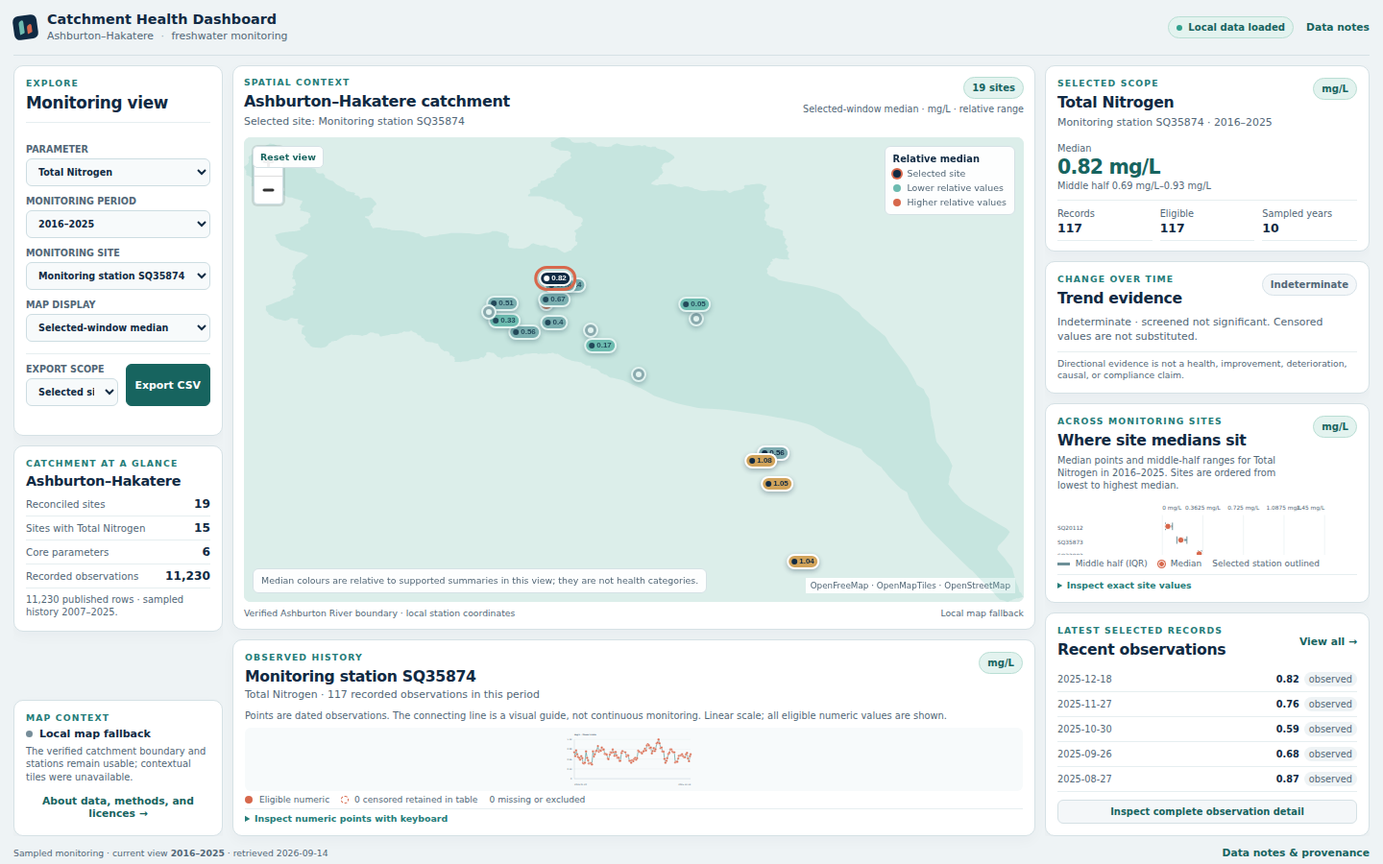
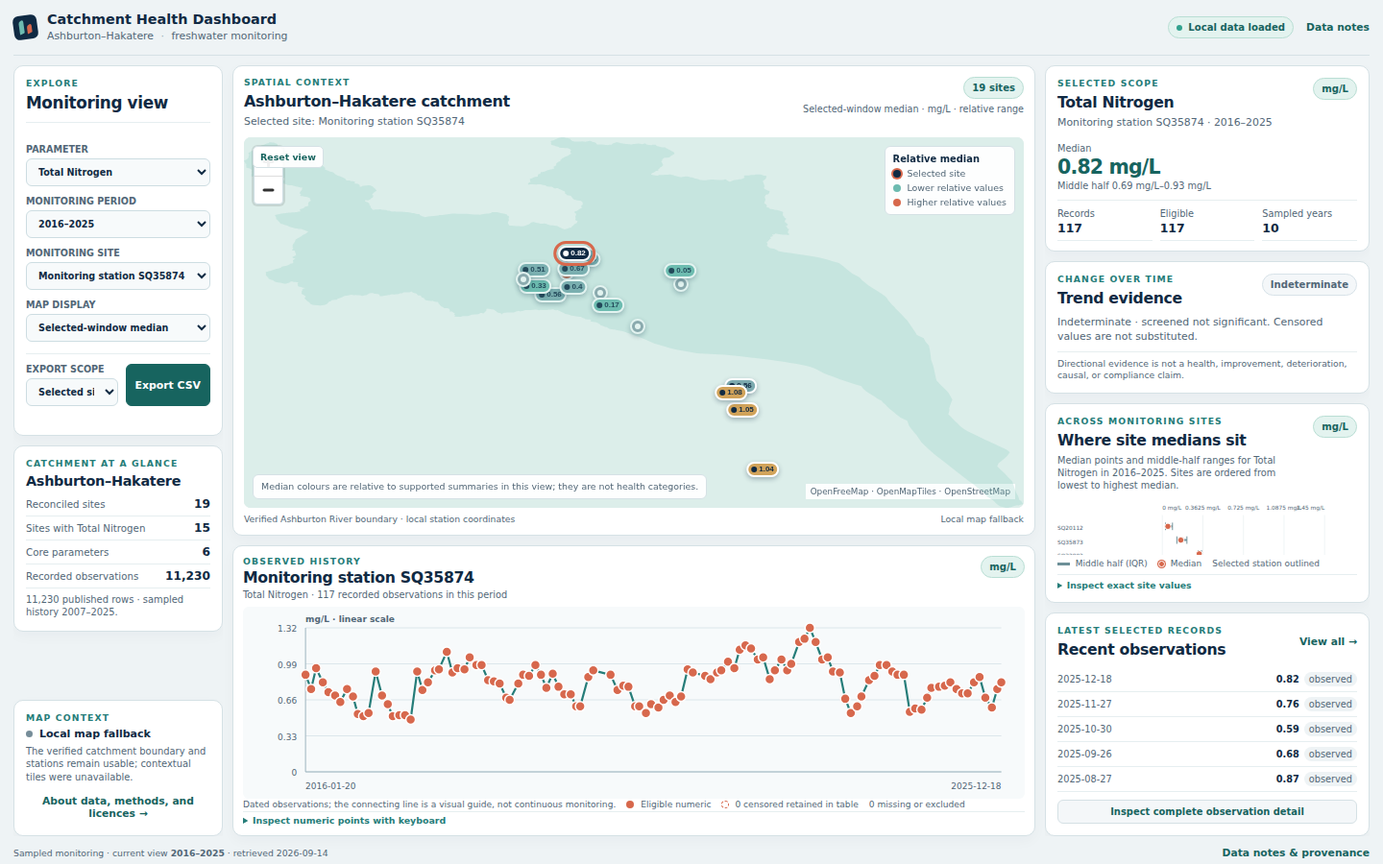
Improve responsive history chart layout

diff --git a/web/src/components/SeriesChart.tsx b/web/src/components/SeriesChart.tsx
@@ -1,4 +1,4 @@
-import { useState } from "react";
+import { useEffect, useRef, useState } from "react";
 import type { Observation } from "../contracts";
 
 type SeriesChartProps = {
@@ -16,6 +16,8 @@ function chartNumber(value: number): string {
 /** Accessible SVG series; the later observation panel remains the authoritative detail route. */
 export function SeriesChart({ observations, unit, stationName, parameterName, loading = false }: SeriesChartProps) {
   const [inspectedPoint, setInspectedPoint] = useState<string | null>(null);
+  const chartFrameRef = useRef<HTMLDivElement | null>(null);
+  const [chartSize, setChartSize] = useState({ width: 620, height: 270 });
   const numeric = observations.filter((observation) => observation.value !== null && observation.analysisEligible);
   const censoredCount = observations.filter((observation) => observation.valueKind === "censored").length;
   const nonNumericCount = observations.filter((observation) => observation.valueKind === "missing" || observation.valueKind === "non_numeric" || !observation.analysisEligible).length;
@@ -27,15 +29,36 @@ export function SeriesChart({ observations, unit, stationName, parameterName, lo
   const minValue = Math.min(...values, 0);
   const maxValue = Math.max(...values, 1);
   const valueSpan = Math.max(maxValue - minValue, 1);
+  const plotLeft = Math.max(50, Math.min(72, chartSize.width * 0.08));
+  const plotRight = Math.max(16, Math.min(26, chartSize.width * 0.03));
+  const plotTop = 22;
+  const plotBottom = 28;
+  const plotWidth = Math.max(chartSize.width - plotLeft - plotRight, 1);
+  const plotHeight = Math.max(chartSize.height - plotTop - plotBottom, 1);
   const xFor = (observation: Observation, index: number) => {
     const time = Date.parse(observation.observedAt);
-    return 58 + (Number.isFinite(time) ? ((time - minTime) / timeSpan) * 492 : (index * 492) / Math.max(numeric.length - 1, 1));
+    return plotLeft + (Number.isFinite(time) ? ((time - minTime) / timeSpan) * plotWidth : (index * plotWidth) / Math.max(numeric.length - 1, 1));
   };
-  const yFor = (value: number) => 216 - ((value - minValue) / valueSpan) * 166;
+  const yFor = (value: number) => plotTop + plotHeight - ((value - minValue) / valueSpan) * plotHeight;
   const points = numeric.map((observation, index) => `${xFor(observation, index)},${yFor(observation.value ?? 0)}`);
   const tickValues = [0, 1, 2, 3, 4].map((index) => minValue + (valueSpan * index) / 4);
   const firstDate = observations[0]?.observedAt.slice(0, 10) ?? "";
   const lastDate = observations.at(-1)?.observedAt.slice(0, 10) ?? "";
+
+  useEffect(() => {
+    const frame = chartFrameRef.current;
+    if (!frame) return;
+    const measure = () => {
+      const bounds = frame.getBoundingClientRect();
+      const next = { width: Math.max(320, Math.round(bounds.width)), height: Math.max(150, Math.round(bounds.height)) };
+      setChartSize((current) => current.width === next.width && current.height === next.height ? current : next);
+    };
+    measure();
+    if (typeof ResizeObserver === "undefined") return;
+    const observer = new ResizeObserver(measure);
+    observer.observe(frame);
+    return () => observer.disconnect();
+  }, []);
 
   return (
     <section className="panel chart-panel" aria-labelledby="series-title">
@@ -47,19 +70,20 @@ export function SeriesChart({ observations, unit, stationName, parameterName, lo
         </div>
         <span className="unit-label">{unit ?? "unit pending"}</span>
       </div>
-      <p className="chart-explainer">Points are dated observations. The connecting line is a visual guide, not continuous monitoring. Linear scale; all eligible numeric values are shown.</p>
       {loading && <p className="empty-state" role="status" aria-live="polite">Loading this parameter’s observation detail…</p>}
       {observations.length === 0 && <p className="empty-state" role="status">No observations are available for this parameter and station in the selected period.</p>}
       {observations.length > 0 && numeric.length === 0 && <p className="empty-state" role="status">No eligible numeric observations are available to plot; inspect the retained table for censored or excluded records.</p>}
-      {numeric.length > 0 && <svg className="series-chart" viewBox="0 0 620 270" role="img" aria-labelledby="chart-title chart-desc">
+      {numeric.length > 0 && <div className="series-chart-frame" ref={chartFrameRef}>
+        <svg className="series-chart" data-testid="history-chart" width={chartSize.width} height={chartSize.height} viewBox={`0 0 ${chartSize.width} ${chartSize.height}`} role="img" aria-labelledby="chart-title chart-desc">
         <title id="chart-title">{parameterName} observations at {stationName}</title>
         <desc id="chart-desc">{numeric.length} eligible numeric observations on a linear scale from {chartNumber(minValue)} to {chartNumber(maxValue)} {unit ?? ""}. Censored, missing, and excluded results remain in the detail table.</desc>
+        <rect data-testid="history-plot" className="chart-plot-area" x={plotLeft} y={plotTop} width={plotWidth} height={plotHeight} rx="3" />
         {tickValues.map((value, index) => {
           const y = yFor(value);
-          return <g key={value}><line x1="58" x2="550" y1={y} y2={y} className="chart-gridline" /><text x="48" y={y + 4} textAnchor="end" className="chart-axis-label">{chartNumber(value)}</text><title>{index === 0 ? `Minimum scale ${chartNumber(value)}` : `Scale ${chartNumber(value)}`}</title></g>;
+          return <g key={value}><line x1={plotLeft} x2={plotLeft + plotWidth} y1={y} y2={y} className="chart-gridline" /><text x={plotLeft - 9} y={y + 4} textAnchor="end" className="chart-axis-label">{chartNumber(value)}</text><title>{index === 0 ? `Minimum scale ${chartNumber(value)}` : `Scale ${chartNumber(value)}`}</title></g>;
         })}
-        <line x1="58" y1="50" x2="58" y2="216" className="chart-axis" />
-        <line x1="58" y1="216" x2="550" y2="216" className="chart-axis" />
+        <line x1={plotLeft} y1={plotTop} x2={plotLeft} y2={plotTop + plotHeight} className="chart-axis" />
+        <line x1={plotLeft} y1={plotTop + plotHeight} x2={plotLeft + plotWidth} y2={plotTop + plotHeight} className="chart-axis" />
         {points.length > 1 && <polyline points={points.join(" ")} className="chart-line" />}
         {numeric.map((observation, index) => {
           const value = observation.value ?? 0;
@@ -67,11 +91,12 @@ export function SeriesChart({ observations, unit, stationName, parameterName, lo
           const y = yFor(value);
           return <circle key={observation.observationId} cx={x} cy={y} r="5" className="chart-point"><title>{`${observation.observedAt.slice(0, 10)} · ${chartNumber(value)} ${unit ?? ""}`}</title></circle>;
         })}
-        <text x="58" y="244" className="chart-label">{firstDate}</text>
-        <text x="550" y="244" textAnchor="end" className="chart-label">{lastDate}</text>
-        <text x="58" y="31" className="chart-unit-label">{unit ?? "Value"} · linear scale</text>
-      </svg>}
-      <div className="chart-legend" aria-label="Chart record legend"><span><i className="legend-dot legend-dot-active" /> Eligible numeric</span><span><i className="legend-marker-censored" /> {censoredCount} censored retained in table</span><span>{nonNumericCount} missing or excluded</span></div>
+        <text x={plotLeft} y={chartSize.height - 10} className="chart-label">{firstDate}</text>
+        <text x={plotLeft + plotWidth} y={chartSize.height - 10} textAnchor="end" className="chart-label">{lastDate}</text>
+        <text x={plotLeft} y="16" className="chart-unit-label">{unit ?? "Value"} · linear scale</text>
+        </svg>
+      </div>}
+      <div className="chart-legend" aria-label="Chart record legend"><span>Dated observations; the connecting line is a visual guide, not continuous monitoring.</span><span><i className="legend-dot legend-dot-active" /> Eligible numeric</span><span><i className="legend-marker-censored" /> {censoredCount} censored retained in table</span><span>{nonNumericCount} missing or excluded</span></div>
       {numeric.length > 0 && <details className="chart-inspection"><summary>Inspect numeric points with keyboard</summary><div className="point-list">{numeric.map((observation) => <button key={observation.observationId} type="button" onFocus={() => setInspectedPoint(`${observation.observedAt.slice(0, 10)} · ${chartNumber(observation.value ?? 0)} ${unit ?? ""}`)} onClick={() => setInspectedPoint(`${observation.observedAt.slice(0, 10)} · ${chartNumber(observation.value ?? 0)} ${unit ?? ""}`)}>{observation.observedAt.slice(0, 10)} · {chartNumber(observation.value ?? 0)} {unit ?? ""}</button>)}</div>{inspectedPoint && <p className="point-status" role="status" aria-live="polite">Selected point: {inspectedPoint}</p>}</details>}
     </section>
   );

diff --git a/web/src/styles.css b/web/src/styles.css
@@ -67,7 +67,7 @@ select:focus-visible, button:focus-visible, summary:focus-visible, [tabindex="0"
 .status-dot-openfreemap { background: #31a28e; }
 .status-dot-fallback { background: #768d99; }
 .rail-status .text-button { margin-top: 8px; }
-.primary-column { display: grid; gap: 10px; grid-template-rows: minmax(0, 1fr) 205px; }
+.primary-column { display: grid; gap: 10px; grid-template-rows: minmax(0, 1.62fr) minmax(250px, 1fr); }
 .insights-rail { display: grid; gap: 10px; grid-template-rows: auto auto minmax(0, 1fr) auto; overflow-y: auto; }
 .panel { padding: 12px; }
 .panel-heading, .map-panel-header { align-items: flex-start; display: flex; gap: 10px; justify-content: space-between; min-width: 0; }
@@ -116,10 +116,14 @@ select:focus-visible, button:focus-visible, summary:focus-visible, [tabindex="0"
 .map-marker-value { font-size: 8px; }
 .map-marker-direction { font-size: 12px; }
 
-.chart-panel { display: flex; flex-direction: column; min-height: 0; }
+.chart-panel { display: flex; flex-direction: column; min-height: 0; padding: 10px; }
 .chart-context { margin-top: 3px; }
-.chart-explainer { color: #526777; font-size: .62rem; line-height: 1.3; margin: -1px 0 5px; }
-.series-chart { background: #f7fafb; border-radius: 6px; display: block; flex: 1 1 auto; margin: 0 0 3px; min-height: 0; width: 100%; }
+.chart-panel .panel-heading { margin-bottom: 5px; }
+.chart-panel .eyebrow { margin-bottom: 2px; }
+.chart-panel .chart-context { font-size: .61rem; margin-top: 2px; }
+.series-chart-frame { background: #f7fafb; border-radius: 6px; display: flex; flex: 1 1 0; min-height: 0; min-width: 0; overflow: hidden; width: 100%; }
+.series-chart { display: block; height: 100%; min-height: 0; width: 100%; }
+.chart-plot-area { fill: #f7fafb; }
 .chart-axis { stroke: #9db4be; stroke-width: 1; }
 .chart-gridline { stroke: #dce6eb; stroke-width: 1; }
 .chart-line { fill: none; stroke: #267d79; stroke-width: 2.2; }
@@ -127,9 +131,9 @@ select:focus-visible, button:focus-visible, summary:focus-visible, [tabindex="0"
 .chart-point:hover, .chart-point:focus { fill: #102a43; }
 .chart-axis-label, .chart-label, .chart-unit-label { fill: #526777; font-size: 9px; }
 .chart-unit-label { font-size: 9px; font-weight: 750; }
-.chart-legend { align-items: center; color: #526777; display: flex; flex-wrap: wrap; font-size: .57rem; gap: 5px 12px; margin: 1px 0 0; }
+.chart-legend { align-items: center; color: #526777; display: flex; flex-wrap: wrap; font-size: .57rem; gap: 3px 11px; line-height: 1.15; margin: 1px 0 0; }
 .legend-marker-censored { border: 1px dashed #d7684c; border-radius: 50%; display: inline-block; height: 8px; margin-right: 3px; vertical-align: -1px; width: 8px; }
-.chart-inspection { border-top: 1px solid #e6eef0; margin-top: 4px; padding-top: 4px; }
+.chart-inspection { border-top: 1px solid #e6eef0; margin-top: 2px; padding-top: 3px; }
 .chart-inspection summary { color: #267d79; font-size: .59rem; font-weight: 750; }
 .point-list { display: grid; gap: 4px; grid-template-columns: repeat(4, minmax(0, 1fr)); margin-top: 5px; max-height: 80px; overflow: auto; padding: 2px; }
 .point-list button { background: #f4f7f9; border: 1px solid #d7e2e8; border-radius: 5px; color: #526777; font-size: .56rem; padding: 4px; text-align: left; }
@@ -222,7 +226,7 @@ a { color: #17645f; }
   .dashboard-workspace { grid-template-columns: 190px minmax(0, 1fr); grid-template-rows: minmax(0, 1fr) 216px; }
   .insights-rail { display: grid; grid-column: 1 / -1; grid-row: 2; grid-template-columns: repeat(4, minmax(190px, 1fr)); overflow-x: auto; overflow-y: hidden; }
   .comparison-panel { min-height: 195px; }
-  .primary-column { grid-column: 2; grid-row: 1; grid-template-rows: minmax(0, 1fr) 178px; }
+  .primary-column { grid-column: 2; grid-row: 1; grid-template-rows: minmax(0, 1.25fr) minmax(210px, .75fr); }
   .control-rail { grid-column: 1; grid-row: 1; }
   .map-note { max-width: 70%; }
 }
@@ -246,8 +250,8 @@ a { color: #17645f; }
   .map-panel { min-height: 365px; }
   .map-panel-header h2 { font-size: .9rem; }
   .map-mode-label { max-width: 130px; }
-  .series-chart { min-height: 160px; }
-  .chart-panel { min-height: 250px; }
+  .series-chart-frame { min-height: 160px; }
+  .chart-panel { min-height: 280px; }
   .insights-rail { gap: 8px; }
   .comparison-panel { min-height: 300px; }
   .comparison-plot { min-width: 430px; }

diff --git a/web/tests/browser/dashboard.spec.ts b/web/tests/browser/dashboard.spec.ts
@@ -48,7 +48,7 @@ test("lands on a representative coverage-led default", async ({ page }) => {
   await expect(page.getByRole("combobox", { name: "Monitoring site" })).toHaveValue("SQ35874");
   await expect(page.getByText("Selected scope", { exact: true })).toBeVisible();
   await expect(page.locator(".scope-metric strong")).toHaveText("0.82 mg/L");
-  await expect(page.getByText(/Linear scale; all eligible numeric values are shown/)).toBeVisible();
+  await expect(page.getByText(/Dated observations; the connecting line is a visual guide/)).toBeVisible();
 });
 
 test("fits the primary dashboard in desktop viewports without body scrolling", async ({ page }) => {
@@ -58,6 +58,16 @@ test("fits the primary dashboard in desktop viewports without body scrolling", a
     const dimensions = await page.evaluate(() => ({ scrollHeight: document.documentElement.scrollHeight, clientHeight: document.documentElement.clientHeight, scrollWidth: document.documentElement.scrollWidth, clientWidth: document.documentElement.clientWidth }));
     expect(dimensions.scrollHeight - dimensions.clientHeight).toBeLessThanOrEqual(1);
     expect(dimensions.scrollWidth - dimensions.clientWidth).toBeLessThanOrEqual(1);
+    const chartBox = await page.locator('[data-testid="history-chart"]').boundingBox();
+    const plotBox = await page.locator('[data-testid="history-plot"]').boundingBox();
+    const chartPanelBox = await page.locator('.chart-panel').boundingBox();
+    const mapPanelBox = await page.locator('.map-panel').boundingBox();
+    expect(chartBox).not.toBeNull();
+    expect(plotBox).not.toBeNull();
+    expect(chartBox!.height).toBeGreaterThan(150);
+    expect(plotBox!.width).toBeGreaterThan(chartBox!.width * 0.8);
+    expect(plotBox!.height).toBeGreaterThan(chartBox!.height * 0.65);
+    console.log(`history-chart-layout ${JSON.stringify({ width, height, mapPanel: mapPanelBox, chartPanel: chartPanelBox, chart: chartBox, plot: plotBox })}`);
   }
 });
 
@@ -221,7 +231,7 @@ test("measures real asset and basemap resources without visitor ECan calls", asy
 });
 
 test("captures owner-review viewports without horizontal overflow", async ({ page }) => {
-  for (const [width, height, name] of [[1440, 900, "desktop"], [1536, 864, "wide"], [1024, 768, "compact"], [390, 844, "mobile"]] as const) {
+  for (const [width, height, name] of [[1440, 900, "desktop"], [1536, 864, "wide"], [1920, 1080, "ultrawide"], [1024, 768, "compact"], [390, 844, "mobile"]] as const) {
     await page.setViewportSize({ width, height });
     await openDashboard(page);
     const overflow = await page.evaluate(() => document.documentElement.scrollWidth - document.documentElement.clientWidth);

diff --git a/docs/PROJECT_STATE.md b/docs/PROJECT_STATE.md
@@ -51,8 +51,8 @@ Verification here distinguishes documented decisions from executable evidence; t
 - `.gitignore` separates Python caches, environments, raw/cache data, and generated reports from tracked source.
 - Python package metadata and source-independent version `0.1.0` contracts exist for source, station, parameter, observation, aggregate, trend, and asset-manifest records.
 - A synthetic fixture validates source provenance, normalized observation fields, censored/null preservation, referential integrity, and manifest counts.
-- A Vite/React/TypeScript frontend now loads the ignored versioned runtime shell and parameter-partitioned observation assets when prepared, with an explicit synthetic-fixture fallback, and coordinates parameter/window/station/map-display controls across a viewport-filling MapLibre workspace, selected-site series, recent observations, secondary observation inspection, summaries, coverage, interval comparison, filtered CSV export, and quality/provenance views. The local view has a map-centric three-region shell, coverage-led Total Nitrogen/SQ35874 default, verified ECan polygon geometry, optional OpenFreeMap Positron context with a timed local-geometry fallback, readable linear chart axes and discrete-observation cues, neutral trend direction styling, concise detail surfaces, responsive layout, explicit empty/censored/indeterminate states, and browser/unit verification. `web/package-lock.json` is checked in.
-- Quality gates pass: the repository Python suite, fixture validation, Python compilation, frontend strict typecheck, twelve frontend unit tests, frontend production build, seventeen Playwright/axe browser checks, local release-readiness checks, all-site source acquisition, site-membership audit, analytical asset generation, viability audit, source-manifest integrity, and deterministic asset rebuild checks. The final browser suite was rerun for the map-centric shell on 2026-09-14.
+- A Vite/React/TypeScript frontend now loads the ignored versioned runtime shell and parameter-partitioned observation assets when prepared, with an explicit synthetic-fixture fallback, and coordinates parameter/window/station/map-display controls across a viewport-filling MapLibre workspace, selected-site series, recent observations, secondary observation inspection, summaries, coverage, interval comparison, filtered CSV export, and quality/provenance views. The local view has a map-centric three-region shell, coverage-led Total Nitrogen/SQ35874 default, verified ECan polygon geometry, optional OpenFreeMap Positron context with a timed local-geometry fallback, readable linear chart axes and discrete-observation cues, a responsive history plot that fills its measured panel, neutral trend direction styling, concise detail surfaces, responsive layout, explicit empty/censored/indeterminate states, and browser/unit verification. `web/package-lock.json` is checked in.
+- Quality gates pass: the repository Python suite, fixture validation, Python compilation, frontend strict typecheck, twelve frontend unit tests, frontend production build, seventeen Playwright/axe browser checks, local release-readiness checks, all-site source acquisition, site-membership audit, analytical asset generation, viability audit, source-manifest integrity, and deterministic asset rebuild checks. The final browser suite was rerun for the responsive history-chart correction on 2026-09-14.
 - A bounded live Hilltop profile verified 12 real observations for `SQ20104`/Dissolved Reactive Phosphorus; no production dataset is committed.
 - The normal bounded three-parameter profile joined 10 in-bound sites and retrieved 243 observations; 9 sites had data, 194 observations were numeric, and 49 were left-censored. Two Canterbury Bight marine name-screened records were excluded by the polygon.
 - The earlier neutral nine-parameter candidate profiles retrieved 644 observations for 2024 and 8,644 observations for 2007–2024; these were the evidence used for the owner-approved eight-parameter scope. pH covered only 5 sites, ended in 2013, and had no reported unit.
@@ -96,7 +96,7 @@ The local production-shaped workflow is implemented against ignored generated as
 - **Frontend type check/build:** the repository-defined typecheck, unit test, production build, and browser gates remain required after the refreshed contract. Public builds omit source maps; the exact current sizes are recorded after the final build.
 - **Data validation:** source inventory/catalog validation is evidenced by the count-checked live reconciliation; parser and contract validation is evidenced by fixtures plus the fresh 2007–2025 Hilltop profile. Coverage beyond identified inventories remains unverified.
 - **Scientific validation:** the conservative numeric-only summary and uncensored Theil–Sen/Kendall fallback are unit-tested against an independently calculated pairwise Theil–Sen fixture; the viability report audits all trend reasons. Censor-aware ROS/Mann–Kendall methods remain unimplemented and should not be implied.
-- **Visual/accessibility/responsive validation:** Playwright full-page screenshots were inspected at 1440×900, 1536×864, 1024×768, and 390×844 viewport sizes after the map-centric shell pass. The 17-test browser suite found no application console errors, page errors, failed required requests, horizontal overflow, or serious/critical axe violations; it explicitly filters only the known Chromium/WebGL MapLibre compositor diagnostic and allows the documented OpenFreeMap fallback. Desktop body scrolling is zero at 1440×900, 1536×864, and 1920×1080. Core default, interval comparison, parameter/window/station/map-display, determinate/indeterminate trend, export, no-data, censored, fallback/error, Data notes, keyboard, and chart-inspection flows are asserted.
+- **Visual/accessibility/responsive validation:** Playwright full-page screenshots were inspected at 1440×900, 1536×864, 1920×1080, 1024×768, and 390×844 viewport sizes after the responsive history-chart correction. The 17-test browser suite found no application console errors, page errors, failed required requests, horizontal overflow, or serious/critical axe violations; it explicitly filters only the known Chromium/WebGL MapLibre compositor diagnostic and allows the documented OpenFreeMap fallback. Desktop body scrolling is zero at 1440×900, 1536×864, and 1920×1080. The measured history plotting regions are 724×150px, 812×136px, and 1,195×219px respectively; the browser regression checks both responsive SVG sizing and the plotting-area proportion. Core default, interval comparison, parameter/window/station/map-display, determinate/indeterminate trend, export, no-data, censored, fallback/error, Data notes, keyboard, and chart-inspection flows are asserted.
 - **Deployment verification:** no deployment evidenced.
 - **Repository baseline:** file inventory, required-document checks, audit tests, live audit, contract validation, Python compilation, frontend typecheck, frontend unit tests, frontend build, browser interaction/accessibility checks, responsive screenshot inspection, runtime shell/partition measurement, and local asset timing measurement completed; formatter/linter, CI, and deployment gates remain unavailable or not yet applicable.
 - **Live audit:** the 2026-09-14 reconciliation retrieved 6,266/6,266 surface features through ordered pages, 550 coordinate-bearing Hilltop sites, and 19 polygon members; 19 exact station IDs matched and 321 in-bound surface-only features were retained as unmatched inventory.
@@ -120,4 +120,4 @@ Credentials or private access should not be assumed; sources must remain public/
 
 ## Logical Current Development Frontier
 
-Priority 0 is complete as a feasibility screen, Priority 1 is complete as a tested foundation, the approved analytical implementation plus quality-semantics review is complete, and the local functional MVP plus final map-centric shell is complete with refreshed 2025 coverage, exact-ID source reconciliation, verified MapLibre geography, attributed OpenFreeMap context with fail-closed local fallback, partitioned runtime data, filtered export, official attribution/source links, and browser-tested transparency/accessibility behavior. The reproducible public-shaped release build and 120-day runtime freshness safeguards are implemented and rehearsed locally. The next frontier is owner-facing review followed by authorization and operational preparation for external publication/deployment, not further analytical scope.
+Priority 0 is complete as a feasibility screen, Priority 1 is complete as a tested foundation, the approved analytical implementation plus quality-semantics review is complete, and the local functional MVP plus final map-centric shell is complete with refreshed 2025 coverage, exact-ID source reconciliation, verified MapLibre geography, attributed OpenFreeMap context with fail-closed local fallback, partitioned runtime data, filtered export, official attribution/source links, responsive selected-site plotting, and browser-tested transparency/accessibility behavior. The reproducible public-shaped release build and 120-day runtime freshness safeguards are implemented and rehearsed locally. The next frontier is owner-facing review followed by authorization and operational preparation for external publication/deployment, not further analytical scope.

diff --git a/docs/QUALITY_GATES.md b/docs/QUALITY_GATES.md
@@ -20,7 +20,7 @@ Current executable foundation gates are:
 - `python3 tools/reconcile_catchment_coverage.py` to verify count-checked ArcGIS pagination, CRS, boundary inclusion, exact station IDs, unmatched inventories, and selected-parameter observation coverage.
 - `python3 tools/release_build.py` to rehearse the complete public-shaped static build from public sources; it fails closed on unresolved coverage, stale/malformed/unlicensed inputs, and tracked generated outputs.
 
-For the local production-shaped dashboard, run `cd web && npm ci && npm run typecheck && npm run test:unit && npm run build && npx playwright install chromium && npm run test:browser`. The browser suite starts Vite against the local prepared runtime shell and parameter partition, asserts that real assets and geometry are loaded instead of silently using the fixture, checks coordinated interactions, MapLibre selection and map-display modes, OpenFreeMap attribution and fail-closed local fallback, filtered export, keyboard access, and key empty/censored/indeterminate states, runs axe-core checks, measures asset timing, and captures ignored screenshots at 1440×900, 1536×864, 1024×768, and 390×844. Desktop body overflow is asserted separately at 1920×1080. Chromium is installed in the normal user cache; browser binaries, reports, traces, screenshots, and test results must not be committed.
+For the local production-shaped dashboard, run `cd web && npm ci && npm run typecheck && npm run test:unit && npm run build && npx playwright install chromium && npm run test:browser`. The browser suite starts Vite against the local prepared runtime shell and parameter partition, asserts that real assets and geometry are loaded instead of silently using the fixture, checks coordinated interactions, MapLibre selection and map-display modes, OpenFreeMap attribution and fail-closed local fallback, filtered export, keyboard access, and key empty/censored/indeterminate states, runs axe-core checks, measures asset timing, verifies responsive history SVG and plotting-region dimensions, and captures ignored screenshots at 1440×900, 1536×864, 1920×1080, 1024×768, and 390×844. Desktop body overflow is asserted separately at the same desktop sizes. Chromium is installed in the normal user cache; browser binaries, reports, traces, screenshots, and test results must not be committed.
 
 The frontend lockfile is `web/package-lock.json`; `node_modules/` and build output are ignored. The fixture is synthetic and does not validate production source completeness or analytical meaning. Live profile output is written under ignored `reports/generated/`; raw source responses remain ephemeral and public publication still requires a fresh release check.
 

diff --git a/docs/plans/completed/2026-09-14-history-chart-layout.md b/docs/plans/completed/2026-09-14-history-chart-layout.md
@@ -1,0 +1,41 @@
+# Execution plan: responsive history chart layout
+
+Status: Complete
+
+## Objective
+
+Increase the usable plotting area of the selected-site history chart while preserving the accepted map-centric dashboard, analytical contracts, and release safeguards.
+
+## Work units
+
+1. Confirm the fixed primary-column row and fixed SVG plotting coordinates are constraining the chart.
+2. Allocate a deliberate desktop map/history ratio and make the SVG dimensions follow its measured panel rather than an intrinsic aspect ratio.
+3. Keep compact and mobile layouts usable, with bounded panel behavior and no desktop body scrolling.
+4. Add browser regression assertions for chart and plot dimensions at 1440×900, 1536×864, and 1920×1080; regenerate review screenshots.
+5. Run applicable frontend, browser, accessibility, and repository gates; update state/gate documentation; archive this plan and commit one UI correction.
+
+## Non-goals
+
+No analytical, data-source, map, release, or methodology changes.
+
+## Outcome
+
+The fixed 205px desktop history row was replaced with a deliberate responsive
+map/history split (`1.62fr` / `1fr`, with compact-width safeguards). The chart
+now measures its panel with `ResizeObserver`, derives axes, line, points, and
+gridlines from the measured SVG dimensions, and retains a compact visible
+observation-context legend plus keyboard inspection disclosure. The plotting
+region no longer uses the old fixed 492px span or intrinsic SVG aspect ratio.
+
+Verified rendered dimensions from the rebuilt production-shaped dashboard:
+
+- 1440×900: map panel 836×490px; history panel 836×303px; plot 724×150px.
+- 1536×864: map panel 932×468px; history panel 932×289px; plot 812×136px.
+- 1920×1080: map panel 1316×602px; history panel 1316×371px; plot 1,195×219px.
+
+The 17-test Playwright suite, including real-asset loading, responsive
+plot-size assertions, accessibility, no-overflow, and screenshot capture,
+passed after the final production build. Typecheck, 12 frontend unit tests,
+and production build also passed. Fresh review screenshots are retained in
+the ignored `web/screenshots/` directory; the tracked representative
+`docs/assets/dashboard-desktop.png` was refreshed.

diff --git a/docs/ARCHITECTURE.md b/docs/ARCHITECTURE.md
@@ -58,7 +58,7 @@ Do not infer these components from the intended design.
 | Local analytical query | DuckDB | Optional development decision based on data volume and transformations |
 | Frontend | React + TypeScript + Vite | Coordinated dashboard views and ignored application asset loading implemented; public delivery is terms-supported but not deployed |
 | Mapping | MapLibre GL JS with local GeoJSON boundary and station layers | Real ECan polygon, WGS84 stations, fit-to-bounds, selected/available states, map selection, keyboard-equivalent station control, OpenFreeMap Positron context, attribution, and local fallback implemented |
-| Charts | Typed inline SVG plus HTML table | Observed-history chart/table and coordinated filtering implemented; richer charting remains optional |
+| Charts | Typed inline SVG plus HTML table | Observed-history chart/table and coordinated filtering implemented; SVG dimensions follow the measured panel and preserve a textual/keyboard inspection route; richer charting remains optional |
 | Runtime assets | Versioned JSON shell plus parameter-partitioned detail JSON | Runtime contract `2.0.0` implemented with lookup-backed observations, local geometry, manifest checksums, and lazy parameter loading; generated assets require freshness/release checks before hosting |
 | Runtime database | None by default | PostGIS/backend requires demonstrated need and architecture review |
 | Hosting | Static/free or extremely low-cost service | Provider unresolved |

diff --git a/docs/BACKLOG.md b/docs/BACKLOG.md
@@ -257,7 +257,10 @@ Twelve frontend unit tests and seventeen Playwright/Chromium browser tests pass,
 including real-data loading, coordinated parameter/window/station/map flows,
 censored and indeterminate states, export, fallback/error behavior, keyboard
 access, axe checks, performance timing, and responsive overflow checks. Full-
-page screenshots were inspected at 1440×900, 1536×864, 1024×768, and 390×844. The shell
+page screenshots were inspected at 1440×900, 1536×864, 1920×1080, 1024×768,
+and 390×844. The map/history workspace was subsequently corrected so the
+measured history plotting region fills the responsive chart frame: 724×150px at
+1440×900, 812×136px at 1536×864, and 1,195×219px at 1920×1080. The shell
 is about 1.26 MB raw/82 kB gzip; shell plus initial E. coli detail is about
 1.41 MB raw/103 kB gzip; all partitions are about 1.71 MB raw/207 kB gzip.
 

diff --git a/web/README.md b/web/README.md
@@ -47,7 +47,8 @@ suite starts Vite, verifies the real shell and initial partition requests,
 checks coordinated controls, MapLibre selection, export, fallback/error state,
 keyboard access, and no-data/censored/indeterminate behavior, runs axe-core,
 checks map-context fallback and desktop body overflow, and captures ignored
-full-page review screenshots at 1440×900, 1536×864, 1024×768, and 390×844
+full-page review screenshots at 1440×900, 1536×864, 1920×1080, 1024×768, and
+390×844
 viewport sizes. Playwright Chromium is downloaded to the normal user
 cache; browser binaries, screenshots, traces, and reports are ignored and
 must not be committed.
